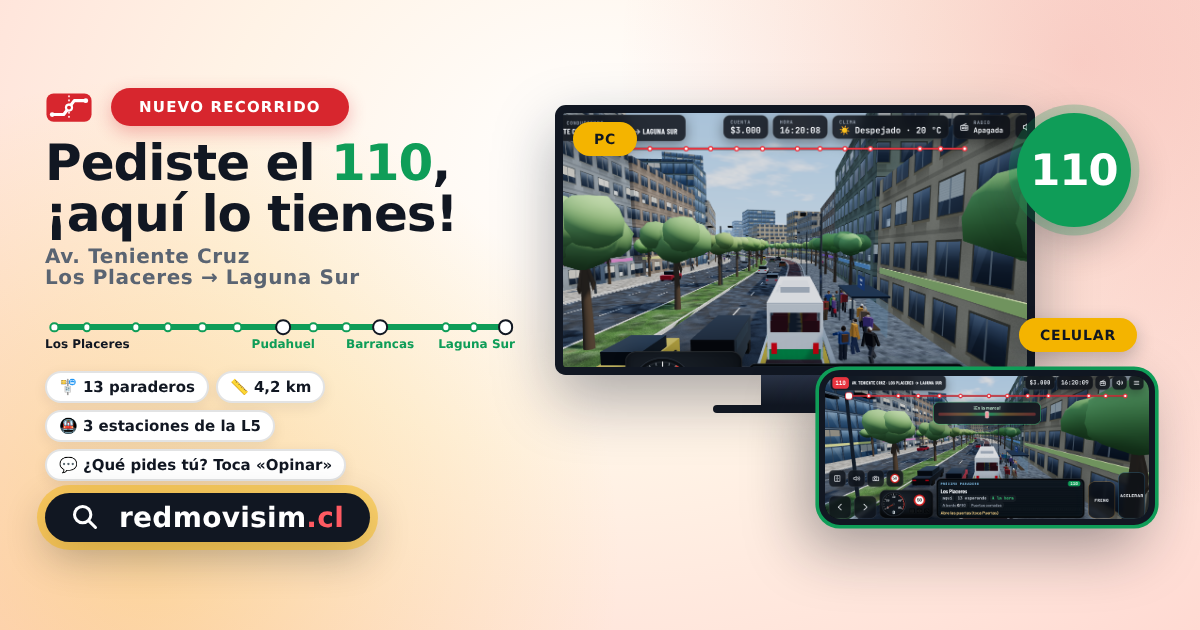
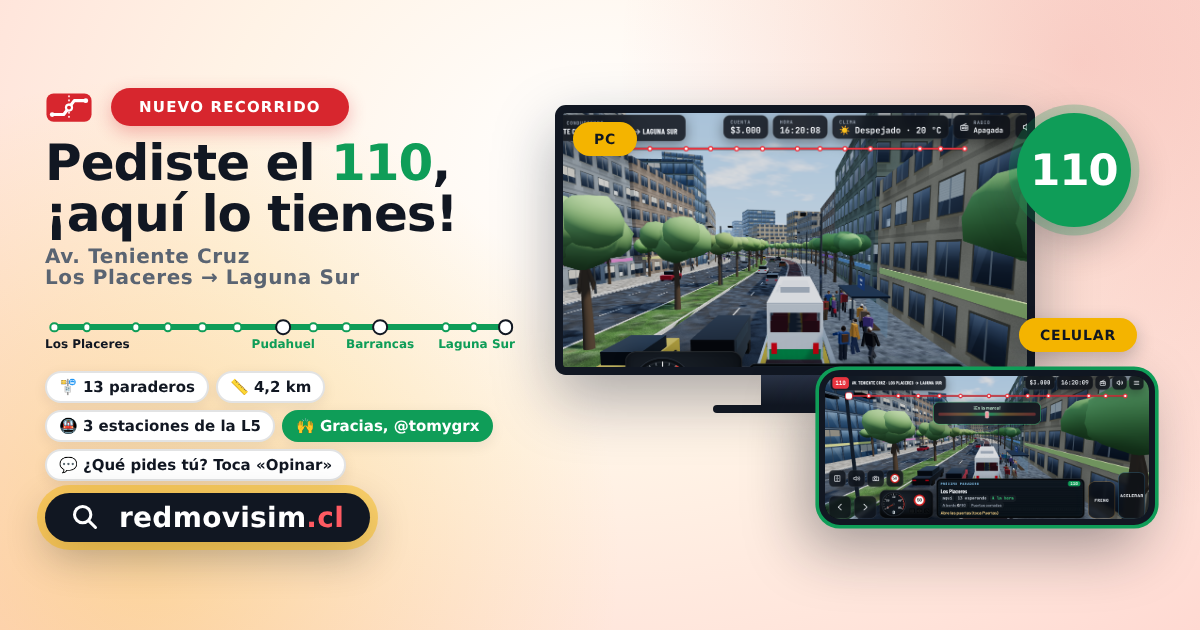
2.14.2 · El post del 110 agradece a @tomygrx, quien pidió el recorrido
Claude-Session: https://claude.ai/code/session_01XEKfggAJhKPatJwQ7Y3LuT

Changed region(s): [[0.2158, 0.6333, 0.4317, 0.7238]]

diff --git a/post-recorrido-110/plantilla.html b/post-recorrido-110/plantilla.html
@@ -69,6 +69,7 @@ h1 small{color:#5a6472}
 .strip span.l5{color:#0f9d58}
 body.h .sep,body.s2 .sep{display:none}body.h .rt,body.s2 .rt{display:block}
 body.h h1{white-space:nowrap}
+.chip.thanks{background:#0f9d58;border-color:#0f9d58;color:#fff}
 </style></head><body>
 <div class="wrap">
  <div class="txt">
@@ -93,7 +94,7 @@ body.h h1{white-space:nowrap}
  </div>
  <div class="chips">
   <span class="chip">🚏 13 paraderos</span><span class="chip">📏 4,2 km</span><span class="chip">🚇 3 estaciones de la L5</span>
-  <span class="chip">💬 ¿Qué pides tú? Toca «Opinar»</span>
+  <span class="chip thanks">🙌 Gracias, @tomygrx</span><span class="chip">💬 ¿Qué pides tú? Toca «Opinar»</span>
  </div>
  <div class="bar"><svg viewBox="0 0 24 24" fill="none" stroke="#fff" stroke-width="2.6" stroke-linecap="round"><circle cx="10" cy="10" r="7"/><path d="M15.5 15.5L21 21"/></svg><b>redmovisim<span>.cl</span></b></div>
  </div>

diff --git a/index.html b/index.html
@@ -95,7 +95,7 @@
       <div class="home-brand">
         <img class="home-logo" src="logo.svg" alt="">
         <h1>Red<span>Movi</span>Sim</h1>
-        <span class="start-ver">v2.14.1</span>
+        <span class="start-ver">v2.14.2</span>
       </div>
       <div class="home-bar-tools">
         <button class="home-clock" id="clockNow" type="button" aria-live="polite" title="Ver las tarifas según el horario">

diff --git a/sw.js b/sw.js
@@ -14,7 +14,7 @@
    sin conexión.
    ========================================================================== */
 
-const CACHE = "metrosim-v2.14.1";
+const CACHE = "metrosim-v2.14.2";
 const CDN = ["cdn.jsdelivr.net", "unpkg.com"];
 
 /** Lo mínimo para que la portada abra sin conexión aunque no se haya jugado. */

diff --git a/js/config.js b/js/config.js
@@ -26,7 +26,7 @@
    y curva de demanda horaria de un día real de Santiago.
    ========================================================================== */
 
-export const VERSION = "2.14.1";
+export const VERSION = "2.14.2";
 
 /* ---------- Colores oficiales de las líneas ---------- */
 export const LINE_COLORS = {

diff --git a/README.md b/README.md
@@ -135,6 +135,8 @@ trenes de los dos motores quedan a ~1 m (mediana).
 **2.14.1** · Post «Pediste el 110, ¡aquí lo tienes!» para anunciar el recorrido que pidió un jugador (`post-recorrido-110/`:
 cuadrado, vertical, historia y horizontal, con capturas del 110 en PC y en el celular acostado, y el texto listo en `texto.txt`).
 
+**2.14.2** · El post del 110 agradece a **@tomygrx**, el jugador que pidió el recorrido (en la imagen y en el texto).
+
 ## Versión 2.13 · RedMoviSim te escucha: sugerencias y comentarios
 
 Nuevo `js/sugerencias.js`: un formulario para que los jugadores nos cuenten ideas, errores y lo que les gusta.
